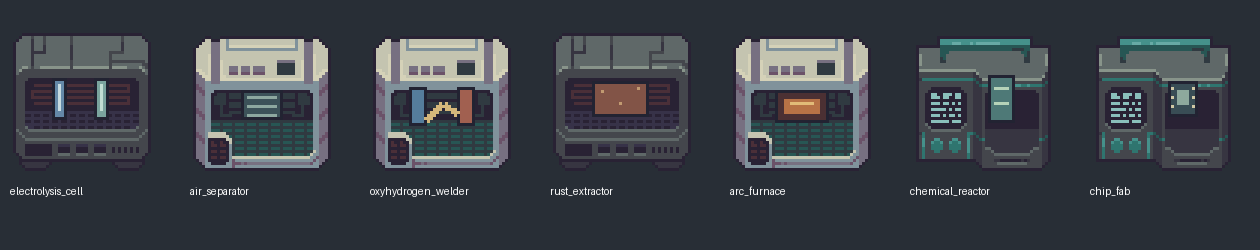
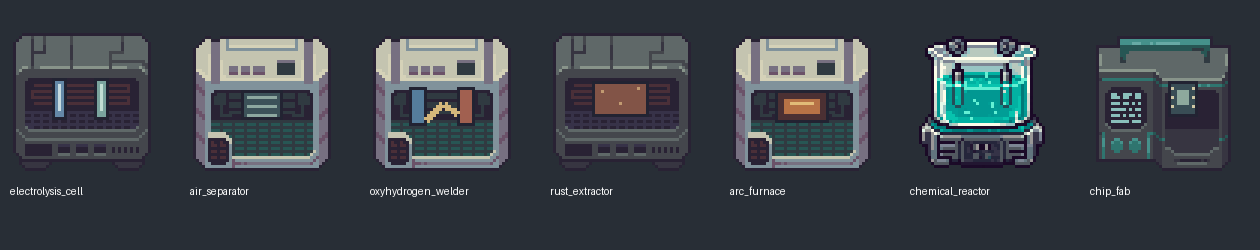
art: refresh chemistry items and laboratory rack

Changed region(s): [[0.7119, 0.14, 0.8357, 0.672]]

diff --git a/tools/generate_vanilla_inspired_art.py b/tools/generate_vanilla_inspired_art.py
@@ -5,14 +5,17 @@ native 16-pixel grid; runtime sprites and enlarged editable sources match exactl
 """
 from pathlib import Path
 from PIL import Image, ImageDraw
+import random
 from generate_gas_bottles import generate as generate_gas_cylinders
 
 ROOT = Path(__file__).resolve().parents[1]
 REFS = ROOT / 'ArtSource/References/native'
+WORKORDER = ROOT / 'ArtSource/WorkOrders/completed/2026-11-01-electronic-beaker-laboratory-rack'
 TEX = ROOT / 'Textures/Items'
 HIGH = ROOT / 'ArtSource/Items/16x'
 PREVIEW = ROOT / 'ArtSource/Previews'
 RESAMPLE = Image.Resampling.NEAREST
+RACK_CROP = (25, 25, 1230, 1230)
 
 def base(name):
     image = Image.open(REFS / (name + '.png')).convert('RGBA')
@@ -22,6 +25,27 @@ def base(name):
 def save(name, image):
     image.save(TEX / (name + '.png'))
     image.resize((image.width * 16, image.height * 16), RESAMPLE).save(HIGH / (name + '.png'))
+
+def generated_icon(master_name, size, crop_bounds=None):
+    master = Image.open(WORKORDER / master_name).convert('RGBA')
+    alpha = master.getchannel('A').point(lambda value: 255 if value >= 128 else 0)
+    master.putalpha(alpha)
+    if crop_bounds is None:
+        bounds = alpha.getbbox()
+        if bounds is None:
+            raise ValueError(f'{master_name}: image has no opaque pixels')
+    else:
+        bounds = crop_bounds
+    content = master.crop(bounds)
+    limit = size - 4
+    scale = min(limit / content.width, limit / content.height)
+    target = (max(1, round(content.width * scale)), max(1, round(content.height * scale)))
+    content = content.resize(target, RESAMPLE)
+    colors = content.convert('RGB').quantize(colors=28, dither=Image.Dither.NONE).convert('RGBA')
+    colors.putalpha(content.getchannel('A'))
+    icon = Image.new('RGBA', (size, size), (0, 0, 0, 0))
+    icon.alpha_composite(colors, ((size - target[0]) // 2, (size - target[1]) // 2))
+    return icon
 
 gas_images = generate_gas_cylinders()
 
@@ -33,22 +57,58 @@ d.rectangle((6, 13, 9, 15), fill='#73b7a6')
 d.rectangle((6, 23, 9, 25), fill='#c1a15f')
 save('elem_hydrogen_fuel_cell', cell)
 
-# Follow the vanilla 3x2 ore silhouette rather than shrinking rocks to one cell.
-# The irregular occupied shape is preserved; colors distinguish sand from oxide.
-ore = base('ore1')
-minerals = []
-for name, tint in (('elem_silica', (190, 183, 151)), ('elem_iron_oxide', (155, 90, 68))):
-    image = ore.copy()
+# Minerals are the vanilla ore sprite rotated into the portrait 2x3 footprint the
+# item asks for. Two cells are empty after the rotation, so a small chip of the same
+# ore is dropped into each; the tint alone tells silica sand from iron oxide.
+ORE_CELL = 16
+
+
+def cell_map(image):
+    return {(x // ORE_CELL, y // ORE_CELL): image.getpixel((x, y))[3] > 0
+            for y in range(ORE_CELL // 2, image.height, ORE_CELL)
+            for x in range(ORE_CELL // 2, image.width, ORE_CELL)}
+
+
+def tint_mineral(image, tint):
     pixels = image.load()
     for y in range(image.height):
         for x in range(image.width):
             r, g, b, a = pixels[x, y]
             if a and max(r, g, b) > 75:
-                # Preserve the game's shading while tinting its mineral highlights.
                 pixels[x, y] = (round(r * .48 + tint[0] * .52), round(g * .48 + tint[1] * .52),
                                 round(b * .48 + tint[2] * .52), a)
-    save(name, image)
+    return image
+
+
+def fill_empty_cells(image, chip_box):
+    chip = image.crop(chip_box).transpose(Image.Transpose.FLIP_TOP_BOTTOM)
+    for (cx, cy), filled in cell_map(image).items():
+        if not filled:
+            image.paste(chip, (cx * ORE_CELL + 3, cy * ORE_CELL + 3), chip)
+    image.putalpha(image.getchannel('A').point(lambda value: 255 if value >= 128 else 0))
+    return image
+
+
+ore = base('ore1')
+minerals = []
+for name, tint in (('elem_silica', (205, 198, 168)), ('elem_iron_oxide', (172, 104, 80))):
+    image = tint_mineral(ore.transpose(Image.Transpose.ROTATE_90), tint)
+    save(name, fill_empty_cells(image, (3, 20, 15, 30)))
     minerals.append((name, image))
+
+# Coke reuses the vanilla flux silhouette, recoloured into a black carbon ramp.
+flux = base('flux_agent')
+coke = flux.copy()
+carbon = ((30, 30, 36), (46, 46, 54), (68, 68, 78), (96, 96, 108))
+pixels = coke.load()
+for y in range(coke.height):
+    for x in range(coke.width):
+        r, g, b, a = pixels[x, y]
+        if not a or (r, g, b) == (41, 34, 52):
+            continue
+        level = round((r * .299 + g * .587 + b * .114) / 255 * (len(carbon) - 1))
+        pixels[x, y] = carbon[level] + (a,)
+save('elem_coke', coke)
 
 # Keep the recognisable bodies, outlines and palette of actual vanilla machinery;
 # small controls depict the function of each machine.
@@ -58,12 +118,12 @@ specs = {
     'elem_oxyhydrogen_welder': ('furnace', 'weld'),
     'elem_rust_extractor': ('evaporator', 'rust'),
     'elem_arc_furnace': ('furnace', 'heat'),
-    'elem_chemical_reactor': ('chem_finisher', 'reactor'),
+    'elem_chemical_reactor': ('chem_finisher', 'electronic_beaker'),
     'elem_chip_fab': ('chem_finisher', 'chip'),
 }
 machines = []
 for name, (source, kind) in specs.items():
-    image = base(source)
+    image = generated_icon('electronic-beaker-master.png', 48) if kind == 'electronic_beaker' else base(source)
     d = ImageDraw.Draw(image)
     if kind == 'electrolysis':
         d.rectangle((14, 16, 18, 29), fill='#6489a8', outline='#222332')
@@ -84,10 +144,8 @@ for name, (source, kind) in specs.items():
         d.rectangle((15, 20, 32, 30), fill='#4b3033', outline='#222332')
         d.rectangle((18, 23, 29, 27), fill='#b77246')
         d.line((20, 24, 27, 24), fill='#e2bb78')
-    elif kind == 'reactor':
-        d.rectangle((26, 15, 34, 30), fill='#4e7977', outline='#222332')
-        d.line((28, 19, 32, 19), fill='#b6d3b9')
-        d.line((28, 24, 32, 24), fill='#b6d3b9')
+    elif kind == 'electronic_beaker':
+        pass
     else:
         d.rectangle((26, 17, 35, 28), fill='#394d55', outline='#222332')
         d.rectangle((29, 20, 32, 24), fill='#8ea99d')
@@ -95,6 +153,18 @@ for name, (source, kind) in specs.items():
             d.point((27, y), fill='#d0c8a5'); d.point((34, y), fill='#d0c8a5')
     save(name, image)
     machines.append((name, image))
+
+laboratory_states = []
+for sprite, master_name, label in (
+    ('elem_laboratory_bay', 'laboratory-rack-0-items-master.png', '0 items'),
+    ('elem_laboratory_bay_1', 'laboratory-rack-1-item-master.png', '1 item'),
+    ('elem_laboratory_bay_2', 'laboratory-rack-2-items-master.png', '2 items'),
+    ('elem_laboratory_bay_3', 'laboratory-rack-3-items-master.png', '3 items'),
+    ('elem_laboratory_bay_4', 'laboratory-rack-master.png', '4+ items'),
+):
+    image = generated_icon(master_name, 64, RACK_CROP)
+    save(sprite, image)
+    laboratory_states.append((label, image))
 
 PREVIEW.mkdir(parents=True, exist_ok=True)
 preview = Image.new('RGB', (7 * 180, 250), '#282e36')
@@ -109,11 +179,21 @@ for i, image in enumerate(gas_images + [cell]):
     sprite = image.resize((image.width * 4, image.height * 4), RESAMPLE)
     preview.paste(sprite, (i * 150 + (150 - sprite.width) // 2, 20), sprite)
 preview.save(PREVIEW / 'vanilla-inspired-gases-and-cell.png')
-preview = Image.new('RGB', (3 * 220, 190), '#282e36')
+preview = Image.new('RGB', (3 * 220, 280), '#282e36')
 d = ImageDraw.Draw(preview)
 for i, (name, image) in enumerate([('vanilla ore', ore)] + minerals):
-    sprite = image.resize((192, 128), RESAMPLE)
-    preview.paste(sprite, (i * 220 + 10, 22), sprite)
-    d.text((i * 220 + 10, 158), name.removeprefix('elem_'), fill='white')
+    scale = 3 if name == 'vanilla ore' else 4
+    sprite = image.resize((image.width * scale, image.height * scale), RESAMPLE)
+    preview.paste(sprite, (i * 220 + (220 - sprite.width) // 2, 22), sprite)
+    d.text((i * 220 + 10, 258), name.removeprefix('elem_'), fill='white')
 preview.save(PREVIEW / 'vanilla-inspired-minerals.png')
-print('Wrote seven machines, four gas cylinders and one fuel cell.')
+lab_preview = Image.new('RGB', (5 * 200, 246), '#282e36')
+draw = ImageDraw.Draw(lab_preview)
+for index, (label, image) in enumerate(laboratory_states):
+    sprite = image.resize((192, 192), RESAMPLE)
+    x = index * 200 + 4
+    draw.text((x + 4, 8), label, fill='white')
+    lab_preview.paste(sprite, (x, 34), sprite)
+    draw.rectangle((x, 34, x + 191, 225), outline='#59636d')
+lab_preview.save(PREVIEW / 'laboratory-rack-state-variants.png')
+print('Wrote seven machines, four gas cylinders, one fuel cell and five laboratory rack states.')

diff --git a/tools/check_textures.py b/tools/check_textures.py
@@ -12,13 +12,16 @@ EXPECTED = {
     "elem_electrolysis_cell.png": (48, 48),
     "elem_hydrogen_fuel_cell.png": (16, 32),
     "elem_medicine_cabinet.png": (32, 32),
+    "elem_laboratory_bay.png": (64, 64),
     "elem_hydrogen_cylinder.png": (32, 48),
     "elem_oxygen_cylinder.png": (32, 48),
     "elem_nitrogen_cylinder.png": (32, 48),
     "elem_chlorine_cylinder.png": (32, 48),
-    "elem_iron_oxide.png": (48, 32),
-    "elem_silica.png": (48, 32),
+    "elem_iron_oxide.png": (32, 48),
+    "elem_silica.png": (32, 48),
 }
+for state in range(1, 5):
+    EXPECTED[f"elem_laboratory_bay_{state}.png"] = (64, 64)
 for name in (
     "elem_coke", "elem_salt",
     "elem_brine", "elem_fertilizer", "elem_hydrogen_peroxide", "elem_bleaching_powder",
@@ -74,7 +77,8 @@ for name, (w, h) in EXPECTED.items():
     # The game's mod-sprite shape loader samples the center of each 16x16 cell.
     # Vanilla ore has an irregular shape; gas tanks set a full 2x3 shape in code
     # because their valves do not fill both cells of the first row.
-    uses_explicit_shape = name in ("elem_iron_oxide.png", "elem_silica.png") or name.endswith("_cylinder.png")
+    uses_explicit_shape = (name.startswith("elem_laboratory_bay")
+                           or name.endswith("_cylinder.png"))
     if not uses_explicit_shape and size_ok:
         missing_cells = [(x // 16, y // 16) for y in range(8, h, 16) for x in range(8, w, 16)
                          if im.getpixel((x, y))[3] == 0]
@@ -84,11 +88,12 @@ for name, (w, h) in EXPECTED.items():
 
     print(f"{name:38} {im.size[0]}x{im.size[1]:<4} {colors:<6} {str(hard_alpha):6} {high_note:14} {status}")
 
+# Minerals are a portrait 2x3 pile: every one of the six cells must be occupied.
 for name in ("elem_iron_oxide.png", "elem_silica.png"):
     im = Image.open(TEX / name).convert("RGBA")
-    mask = tuple(im.getpixel((x, y))[3] > 0 for y in (8, 24) for x in (8, 24, 40))
-    if mask != (False, True, False, True, True, True):
-        failures.append(f"{name}: vanilla ore footprint changed: {mask}")
+    mask = tuple(im.getpixel((x, y))[3] > 0 for y in (8, 24, 40) for x in (8, 24))
+    if mask != (True,) * 6:
+        failures.append(f"{name}: 2x3 mineral footprint changed: {mask}")
 
 print()
 if failures:

diff --git a/tools/compact_generated_art.py b/tools/compact_generated_art.py
@@ -17,9 +17,10 @@ PREVIEW = ROOT / "ArtSource/Previews"
 MACHINES = (
     "elem_electrolysis_cell", "elem_air_separator", "elem_oxyhydrogen_welder",
     "elem_rust_extractor", "elem_reduction_furnace",
-    "elem_blast_furnace", "elem_chemical_reactor",
+    "elem_blast_furnace",
     "elem_arc_furnace", "elem_chip_fab",
 )
+# The electronic beaker uses a generated master in generate_vanilla_inspired_art.py.
 SMALL_MACHINE_SIZES = {
     "elem_rust_extractor": (32, 16),
     "elem_chip_fab": (32, 16),

diff --git a/ArtSource/WorkOrders/completed/2026-11-01-electronic-beaker-laboratory-rack/README.md b/ArtSource/WorkOrders/completed/2026-11-01-electronic-beaker-laboratory-rack/README.md
@@ -1,0 +1,9 @@
+# Electronic Beaker and Laboratory Rack
+
+The transparent masters in this work order were generated for the game's inventory art:
+
+- `electronic-beaker-master.png`: an electrode-equipped glass beaker on a compact electronic base. It replaces the chemical-reactor appearance while keeping the existing machine ID and recipes.
+- `laboratory-rack-0-items-master.png` through `laboratory-rack-3-items-master.png`: the empty rack and the 1-, 2-, and 3-item states.
+- `laboratory-rack-master.png`: the current four-piece glassware composition, used for the 4+ item state.
+
+The rack states keep the same 4x4 frame and are selected by direct inventory-entry count, matching the vanilla machine-bay state behavior. The runtime generator thresholds alpha, applies a shared crop so each state stays aligned, scales to 64x64, limits the palette, and writes exact 16x nearest-neighbor sources under `ArtSource/Items/16x/`.

diff --git a/ArtSource/References/native/README.md b/ArtSource/References/native/README.md
@@ -1,0 +1,6 @@
+# Native Sprite References
+
+- `flux_agent.png` is the 16x16 vanilla flux-agent sprite. The coke icon generator uses this silhouette and recolors its faces to a carbon palette.
+- `flux_agent_advanced.png` is the 32x32 advanced flux-agent sprite. It is retained as a scale and material-finish reference alongside the standard item.
+
+Both files are reference material only and are not copied into the runtime mod package.
